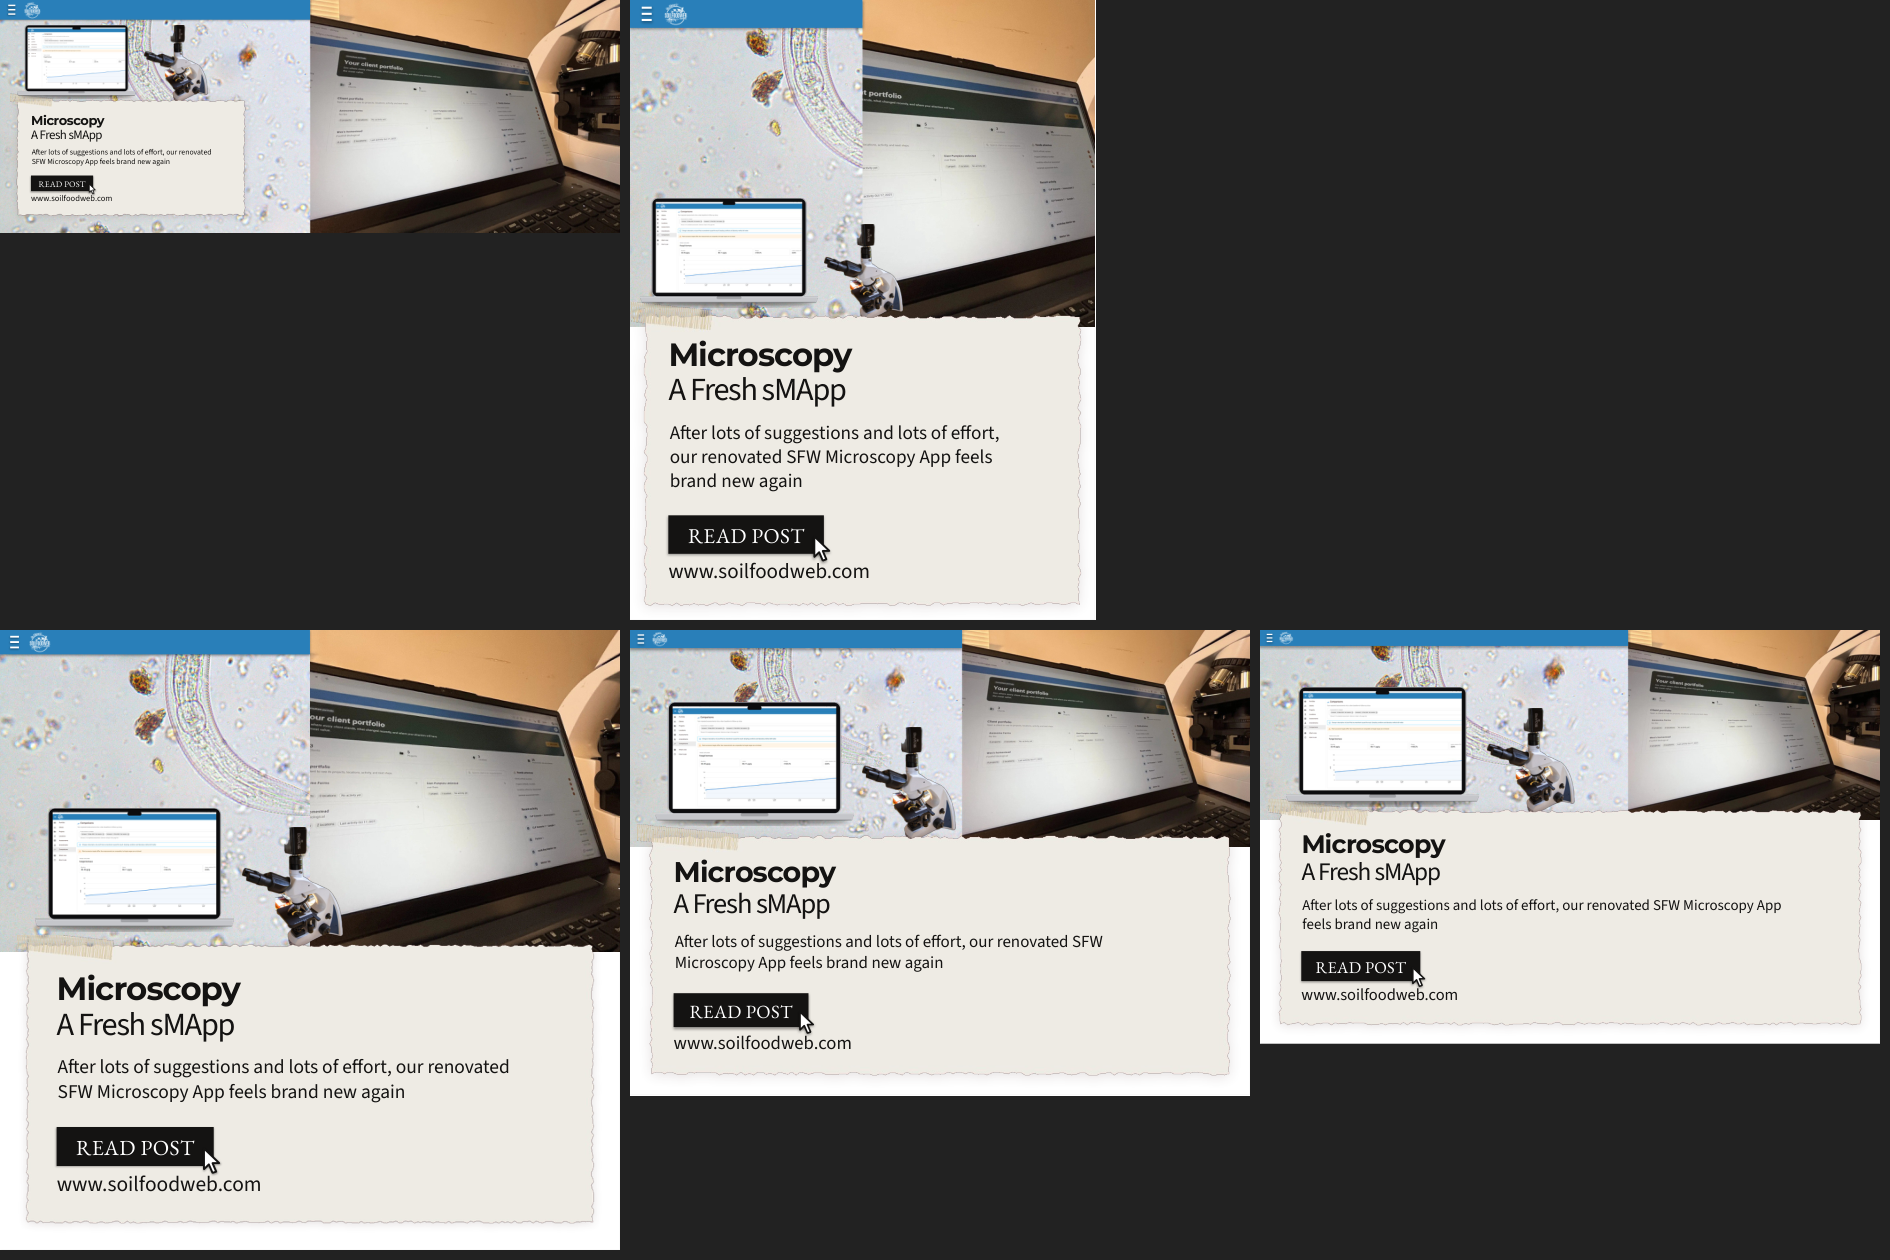
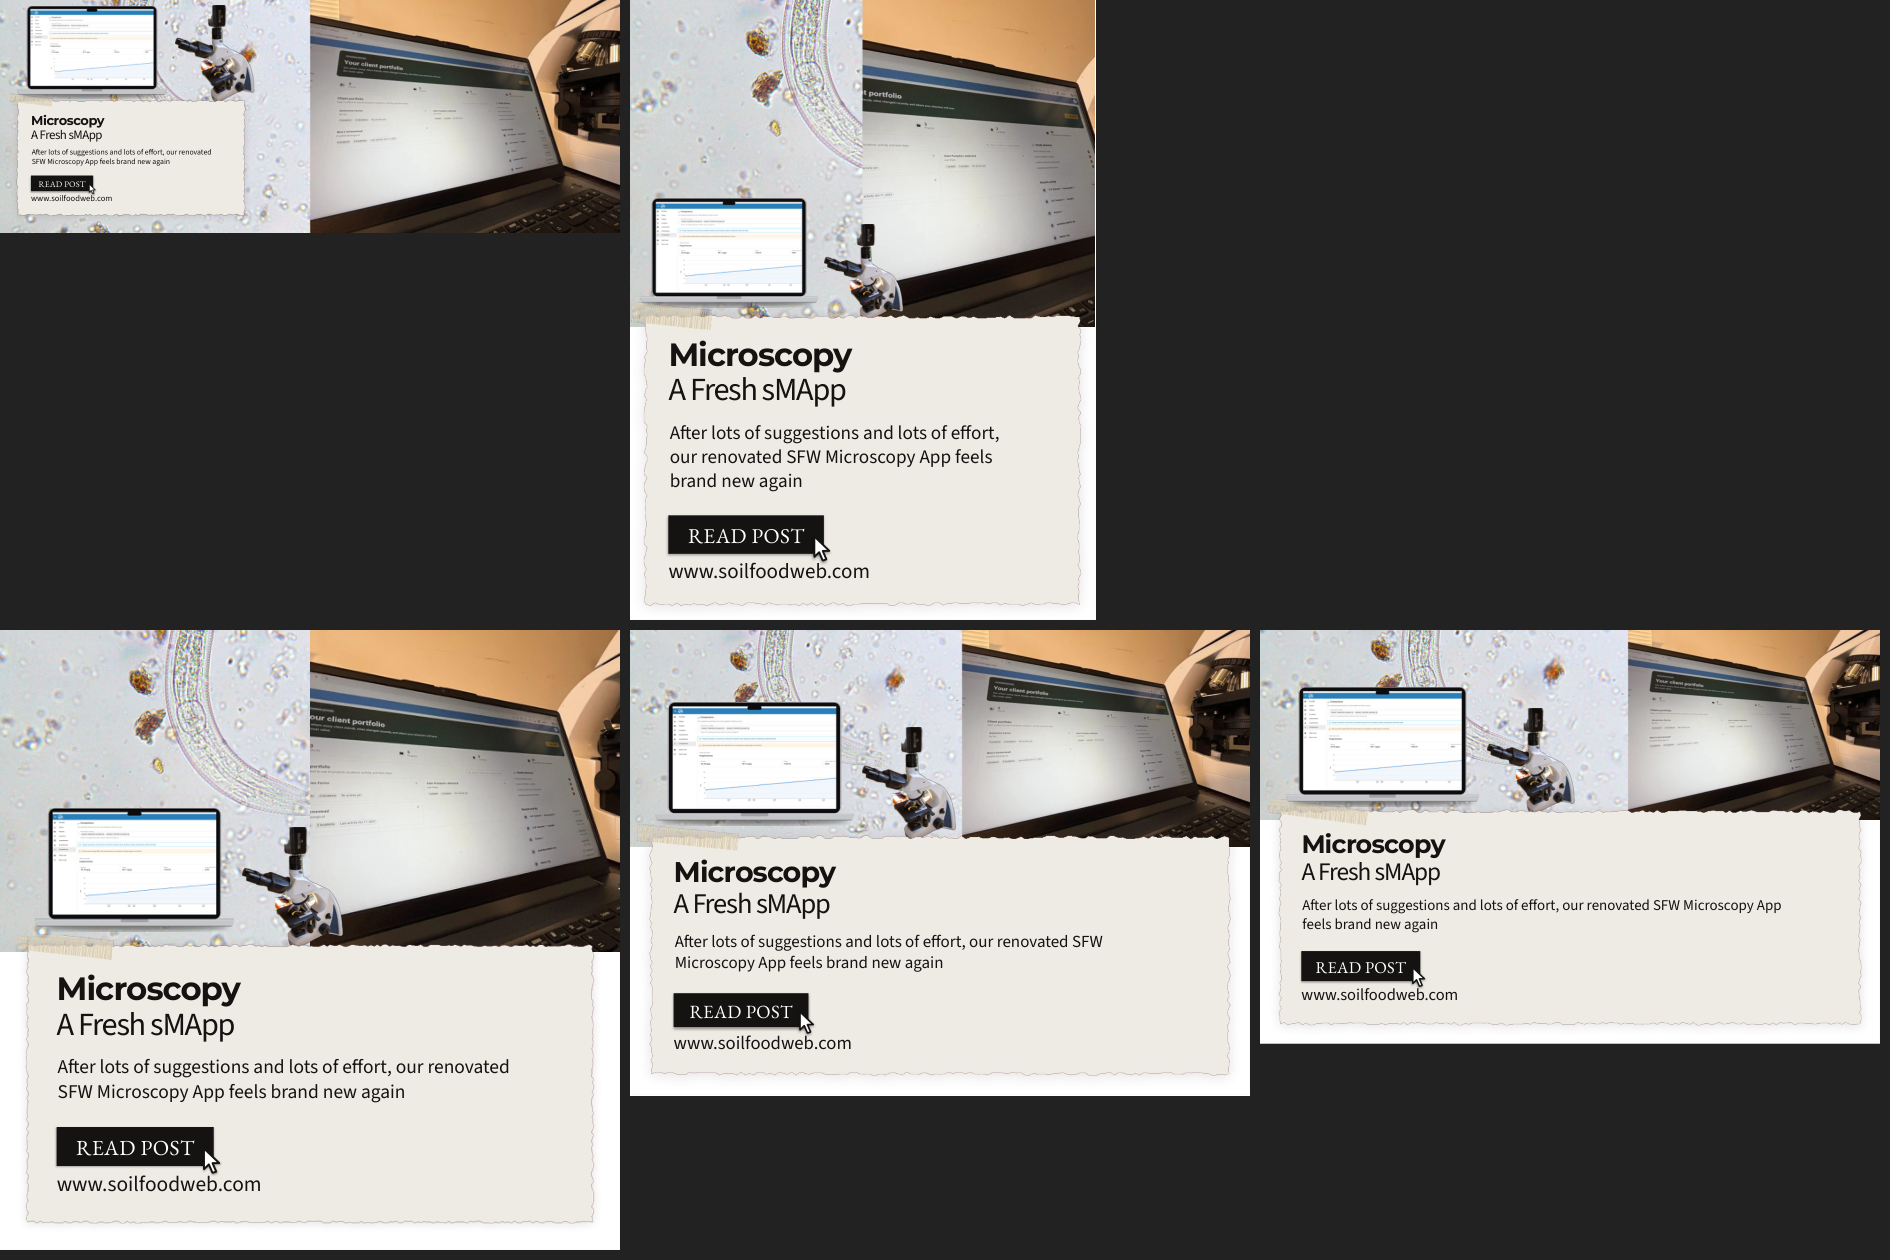
Blog cards: sMApp slide without the blue bar
Claude-Session: https://claude.ai/code/session_01LLv6pkd6pVHpjELa35dCxs

diff --git a/tools/blog-cards/smapp/mk2.py b/tools/blog-cards/smapp/mk2.py
@@ -33,19 +33,20 @@ def build(src, out, key, o):
     pic = sl.shapes.add_picture(t, ph.left, ph.top, ph.width, ph.height); pic.name = 'Photo'
     ph._element.addprevious(pic._element); ph._element.getparent().remove(ph._element)
     # the sMApp header: a blue bar across the microscope picture, menu icon and white logo at the left
-    leftw = (Wk - bw) / k; barh = round(H_ * o['bar'][key])
+    leftw = (Wk - bw) / k; barh = round(H_ * o.get('bar', {}).get(key, 0))
     last = pic
     def put(shape):
         nonlocal last
         last._element.addnext(shape._element); last = shape
-    bar = sl.shapes.add_shape(MSO_SHAPE.RECTANGLE, 0, 0, Emu(int(leftw * PX)), Emu(int(barh * PX)))
-    bar.fill.solid(); bar.fill.fore_color.rgb = BLUE; bar.line.fill.background(); bar.shadow.inherit = False; bar.name = 'sMApp bar'; put(bar)
-    u = barh / 10; mx0 = barh * .42
-    for i in range(3):
-        ln = sl.shapes.add_shape(MSO_SHAPE.RECTANGLE, Emu(int(mx0 * PX)), Emu(int((barh / 2 - 2.6 * u + i * 2.2 * u) * PX)), Emu(int(3.6 * u * PX)), Emu(int(.75 * u * PX)))
-        ln.fill.solid(); ln.fill.fore_color.rgb = RGBColor(255, 255, 255); ln.line.fill.background(); ln.shadow.inherit = False; ln.name = 'Menu icon'; put(ln)
-    lh_ = barh * .84; lgx = mx0 + 3.6 * u + barh * .45
-    lg = sl.shapes.add_picture(LOGO, Emu(int(lgx * PX)), Emu(int((barh - lh_) / 2 * PX)), Emu(int(lh_ * PX)), Emu(int(lh_ * PX))); lg.name = 'Logo'; put(lg)
+    if barh:
+        bar = sl.shapes.add_shape(MSO_SHAPE.RECTANGLE, 0, 0, Emu(int(leftw * PX)), Emu(int(barh * PX)))
+        bar.fill.solid(); bar.fill.fore_color.rgb = BLUE; bar.line.fill.background(); bar.shadow.inherit = False; bar.name = 'sMApp bar'; put(bar)
+        u = barh / 10; mx0 = barh * .42
+        for i in range(3):
+            ln = sl.shapes.add_shape(MSO_SHAPE.RECTANGLE, Emu(int(mx0 * PX)), Emu(int((barh / 2 - 2.6 * u + i * 2.2 * u) * PX)), Emu(int(3.6 * u * PX)), Emu(int(.75 * u * PX)))
+            ln.fill.solid(); ln.fill.fore_color.rgb = RGBColor(255, 255, 255); ln.line.fill.background(); ln.shadow.inherit = False; ln.name = 'Menu icon'; put(ln)
+        lh_ = barh * .84; lgx = mx0 + 3.6 * u + barh * .45
+        lg = sl.shapes.add_picture(LOGO, Emu(int(lgx * PX)), Emu(int((barh - lh_) / 2 * PX)), Emu(int(lh_ * PX)), Emu(int(lh_ * PX))); lg.name = 'Logo'; put(lg)
     px, py, pw = paper.left / PX, paper.top / PX, paper.width / PX
     top = py + 24                                   # visible top edge of the paper
     room = top - barh - 18
@@ -66,7 +67,6 @@ def build(src, out, key, o):
 
 OPTS = [
  dict(name='final-layout', bg='nem1', zoom=1.1,
-      bar={'desktop': .085, 'square': .075, 'tablet': .085, 'mobile': .085, 'thumb': .085},
       tgt={'desktop': (.88, .28), 'square': (.80, .28), 'tablet': (.80, .28), 'mobile': (.80, .25), 'thumb': (.82, .28)},
       scale={'desktop': dict(lap=.24, lapx=.03, scope=.15, scopex=0, lift=10, after=1),
              'square': dict(lap=.32, lapx=.03, scope=.16, scopex=0, lift=32, after=1),
